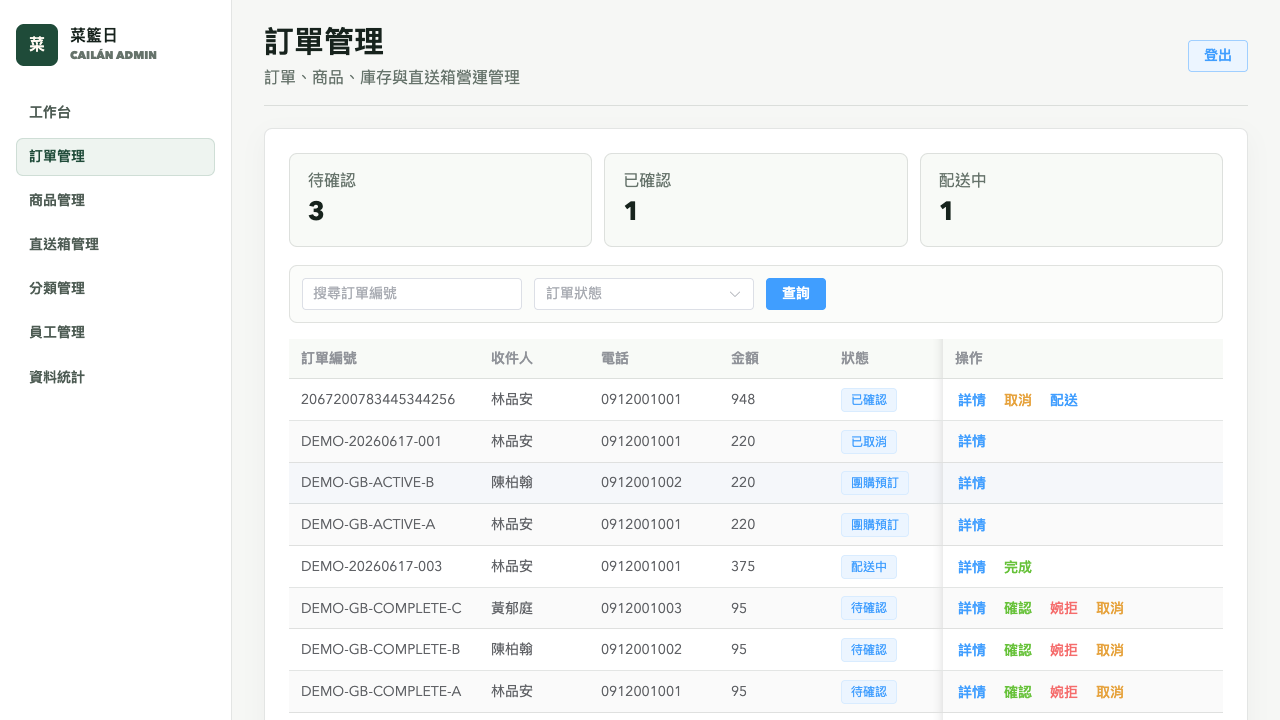
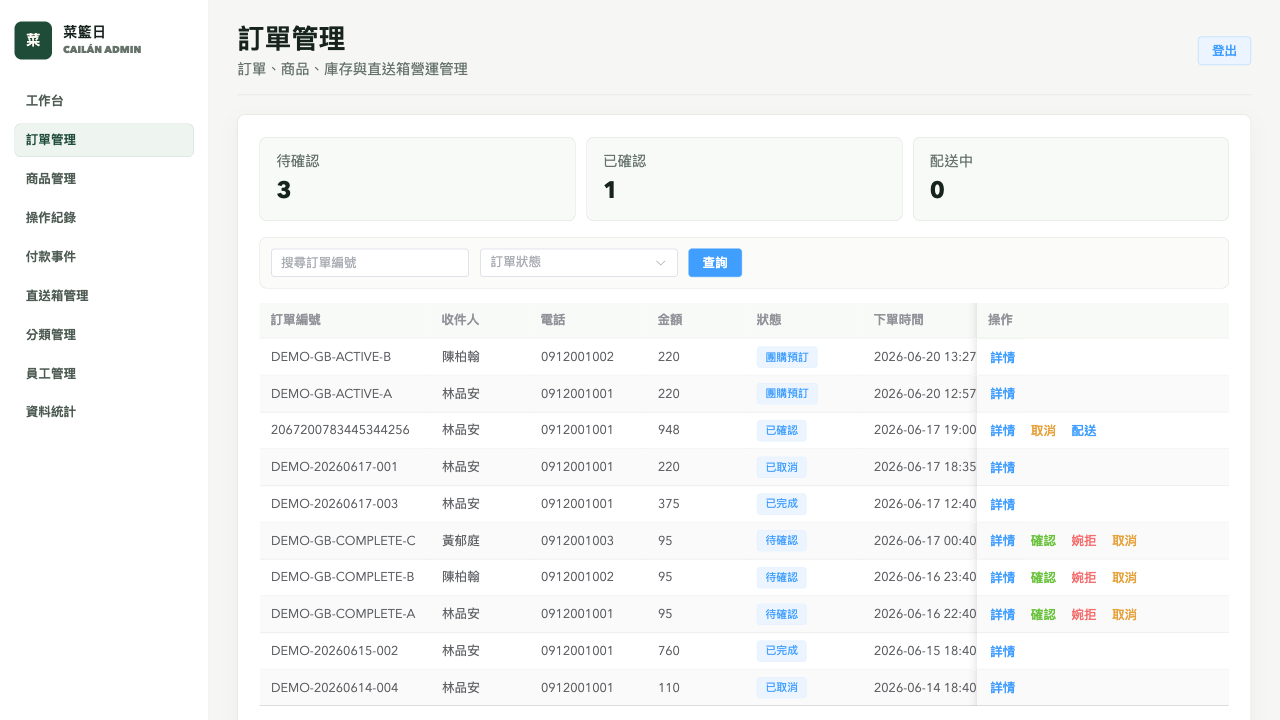
docs: refresh real-image evidence

diff --git a/frontend-environment/local-fresh-user/src/views/GroupBuyView.vue b/frontend-environment/local-fresh-user/src/views/GroupBuyView.vue
@@ -350,6 +350,12 @@ function updateCountdown() {
   const hours = Math.floor(totalSeconds / 3600)
   const minutes = Math.floor((totalSeconds % 3600) / 60)
   const seconds = totalSeconds % 60
+  if (hours >= 24) {
+    const days = Math.floor(hours / 24)
+    const remainingHours = hours % 24
+    countdownText.value = `${days} 天 ${remainingHours} 小時`
+    return
+  }
   if (hours >= 1) {
     countdownText.value = `${hours} 小時 ${minutes} 分`
     return

diff --git a/progress.md b/progress.md
@@ -146,3 +146,26 @@
   - `npm run build` passes for admin frontend.
   - README screenshot references point to the committed `docs/screenshots/01-09` PNG files.
   - Legacy-term scan found no old course/platform/login/map/cloud provider terms; the only `Fastjson` matches are historical notes saying it was removed.
+
+## 2026-06-20 13:38 +0800
+
+- Started Phase 9 after user asked to push the portfolio toward 100% completeness for interview readiness.
+- Scope for this slice: refresh screenshot evidence and documentation checks after restoring the user's real food PNG assets.
+- Loaded the planning-with-files and Playwright skills.
+- Confirmed `npx` is available for Playwright CLI workflows.
+- Confirmed working tree was clean on `hardening-and-upgrade` before starting Phase 9.
+- Screenshot attempt found a real demo-data freshness issue: `GB-DEMO-ACTIVE` had been marked failed by the scheduled expiry task because the seed was created on 2026-06-17.
+- Added a new migration plan for `V16__refresh_demo_group_buy_window.sql` and a frontend countdown display tweak so longer demo windows render as days instead of hundreds of hours.
+- Added `V16__refresh_demo_group_buy_window.sql`; local Flyway startup applied it successfully and advanced the schema to v16.
+- Refreshed all 9 committed screenshots under `docs/screenshots/` at 1280x720:
+  - member home, product list, product detail, group-buy detail, cart, and orders
+  - admin dashboard, product management, and order management
+- Visual inspection verified:
+  - `01-home.png` is the top storefront view and shows real PNG product cards.
+  - `04-group-buy.png` shows real pork imagery, `揪團中`, `29 天 23 小時`, and `2/3` progress.
+  - `09-admin-orders.png` shows group-buy preorders and admin fulfillment actions without obvious clipping.
+- Verification:
+  - Member frontend `npm run build` passed.
+  - Admin frontend `npm run build` passed.
+  - Backend `mvn -pl local-fresh-server -am verify` passed with 135 tests, 0 failures, 0 errors, 5 skipped, and JaCoCo report generation.
+  - `git diff --check` passed.

diff --git a/findings.md b/findings.md
@@ -76,3 +76,13 @@
   - Product story: local fresh-produce storefront, cart/order flow, and group-buy free-shipping mechanism.
   - Backend story: Spring Boot modularity, transaction boundaries, Redisson lock, Redis/Testcontainers evidence, Flyway, JWT/ThreadLocal cleanup, OAuth, and deployment readiness.
   - Full-stack story: Vue 3 member/admin surfaces, Vite builds, API proxy integration, responsive polish, and real browser acceptance evidence.
+
+## Phase 9 Real-Image Evidence Findings
+
+- The user's real PNG food images live at `/Users/kevinlintingwei/Desktop/local-fresh-images`.
+- Commit `61d7edd` restored these images into both frontends under `public/demo-assets` and added Flyway `V15__use_real_food_images.sql`.
+- A complete evidence refresh should verify screenshots now show the PNG food images, not the earlier SVG placeholders.
+- Because product and gift-box list APIs are cached through Redis, browser acceptance should account for possible stale `product_*` and `giftbox_*` keys before screenshot capture.
+- Browser acceptance found that `GB-DEMO-ACTIVE` had already expired and been marked failed because the original seed used `NOW() + 18 hours` on June 17. The demo journey needs a refresh migration so reviewer-facing screenshots do not decay over time.
+- The fix is a follow-up migration instead of editing V10/V15, preserving Flyway checksum safety while restoring the reviewer-facing active group-buy journey.
+- The screenshots now use 1280x720 viewports and show the restored PNG product imagery in the storefront/product/cart/group-buy evidence.

diff --git a/task_plan.md b/task_plan.md
@@ -24,6 +24,7 @@ Raise `local-fresh-platform` to an interview-ready Java backend/fullstack portfo
 | 6. Browser acceptance pass | completed | Run backend/user/admin locally, inspect real desktop/mobile flows, fix high-impact UI/UX or flow blockers, and record evidence. |
 | 7. Frontend product-grade visual pass | completed | Reduce template-like UI, make the member storefront feel like a real fresh-produce shopping flow, and make the admin surface feel like an operational tool. |
 | 8. Portfolio evidence and interview package | completed | Refresh screenshots and documentation so the repository presents the latest product-grade UI, backend strengths, and interview demo path clearly. |
+| 9. Real-image evidence refresh | completed | Regenerate screenshot evidence and documentation checks after restoring the user's real food PNG assets. |
 
 ## Constraints
 
